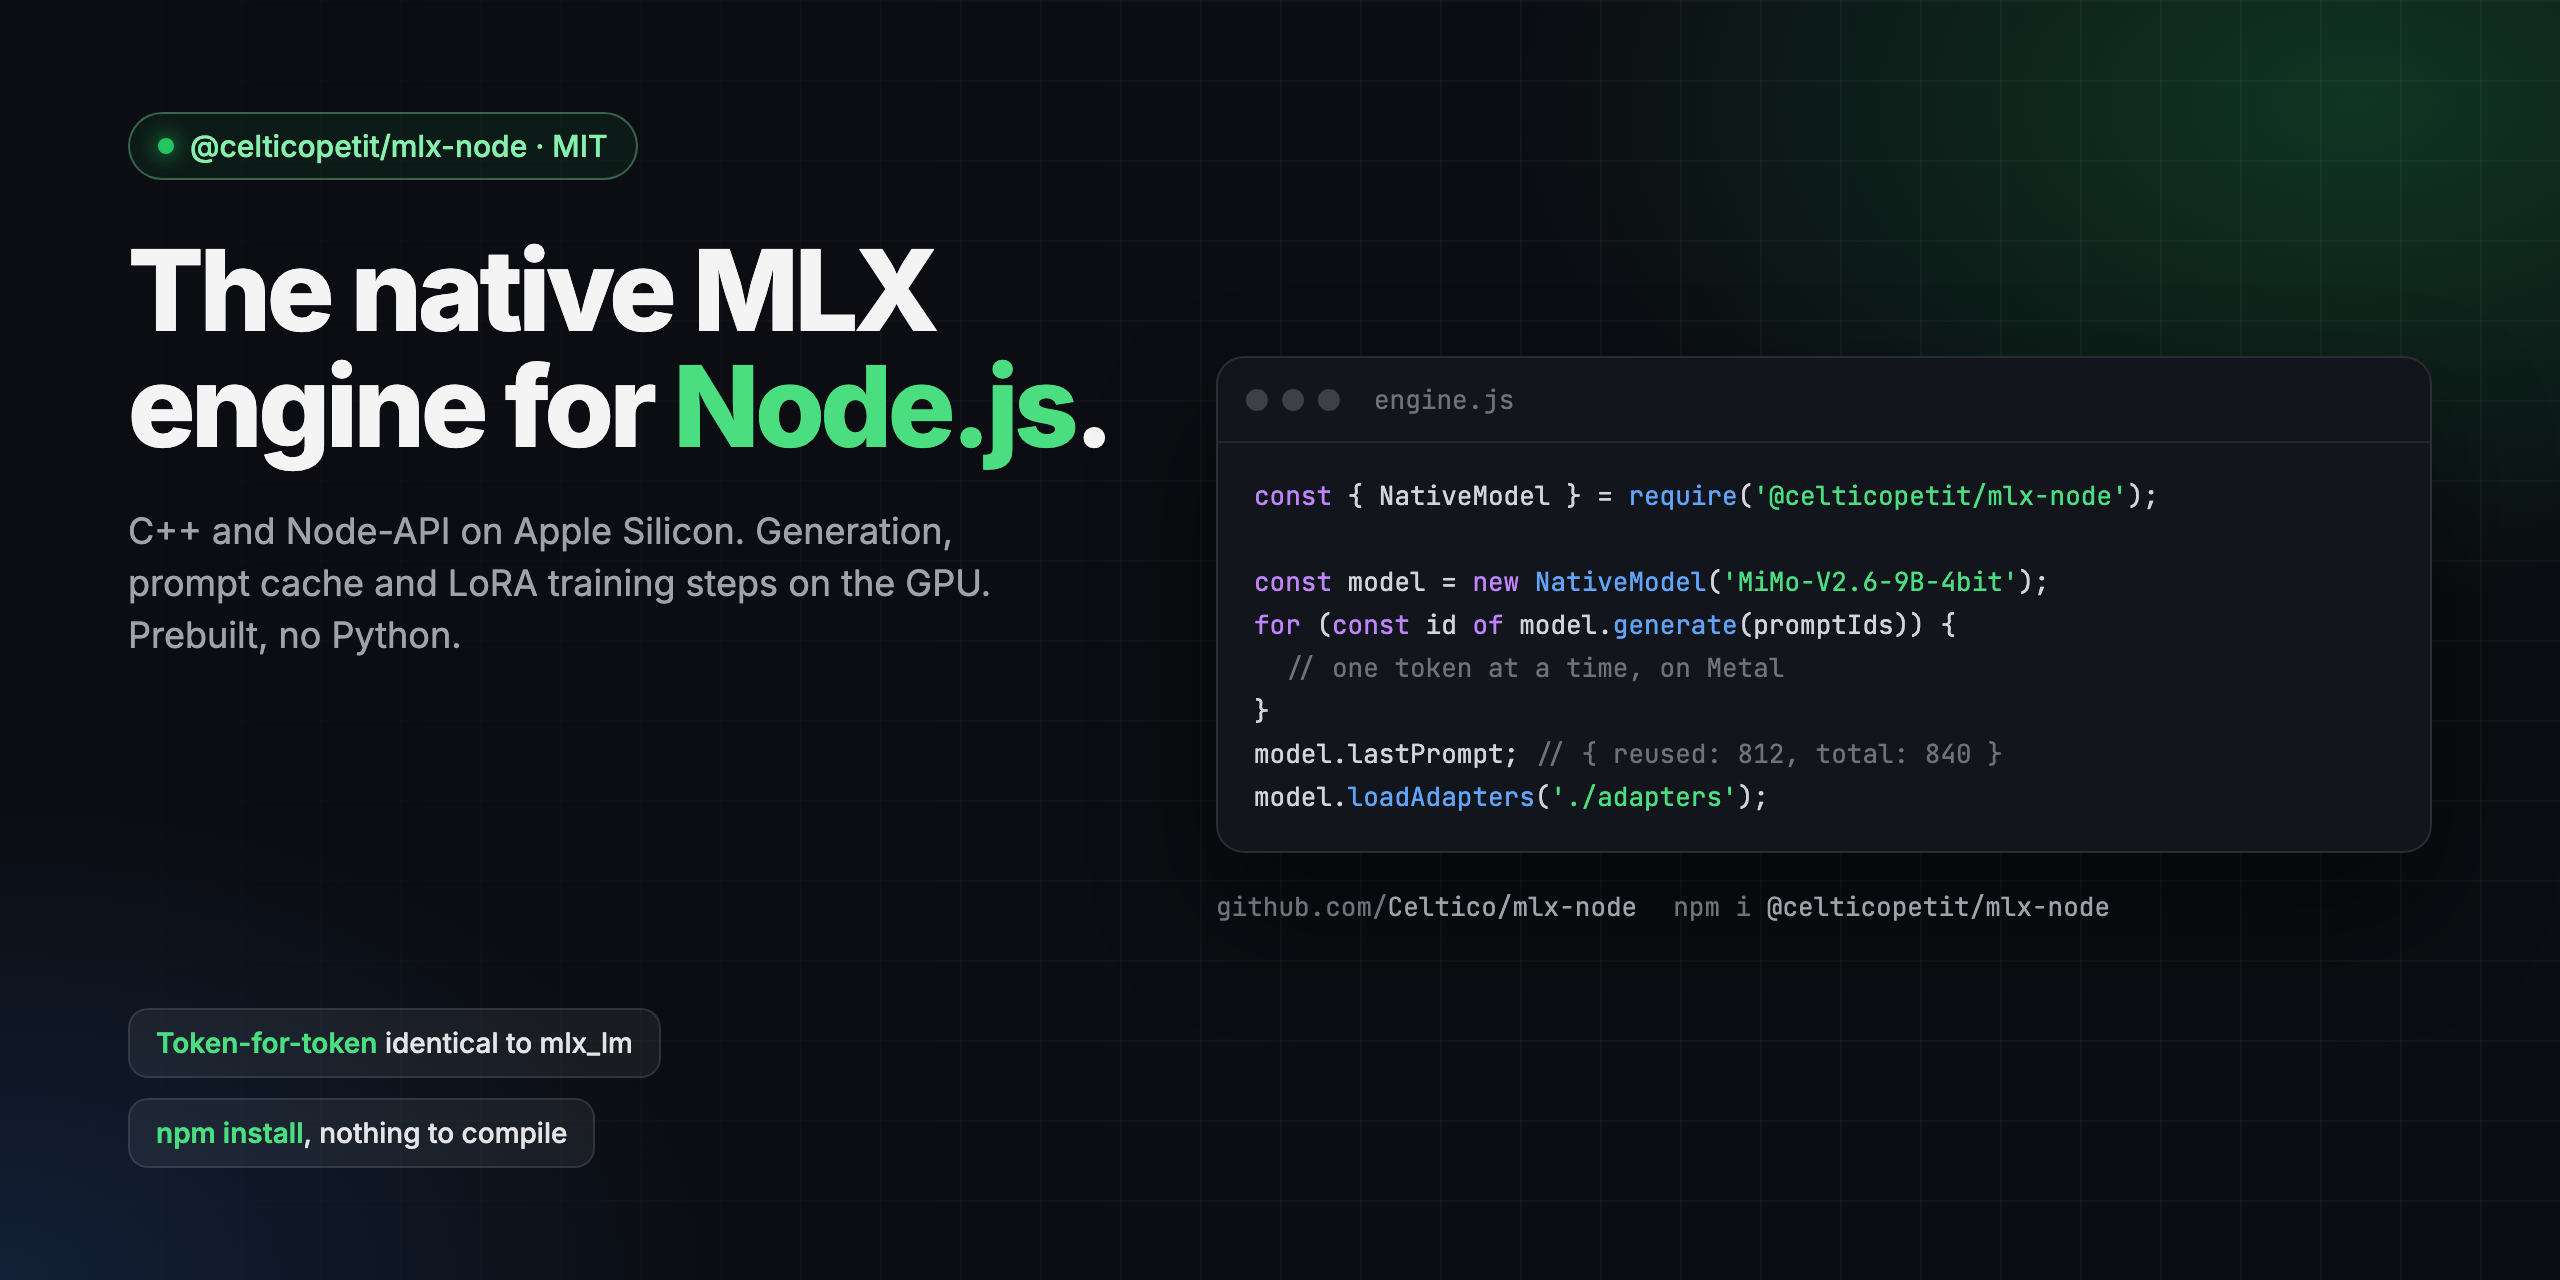
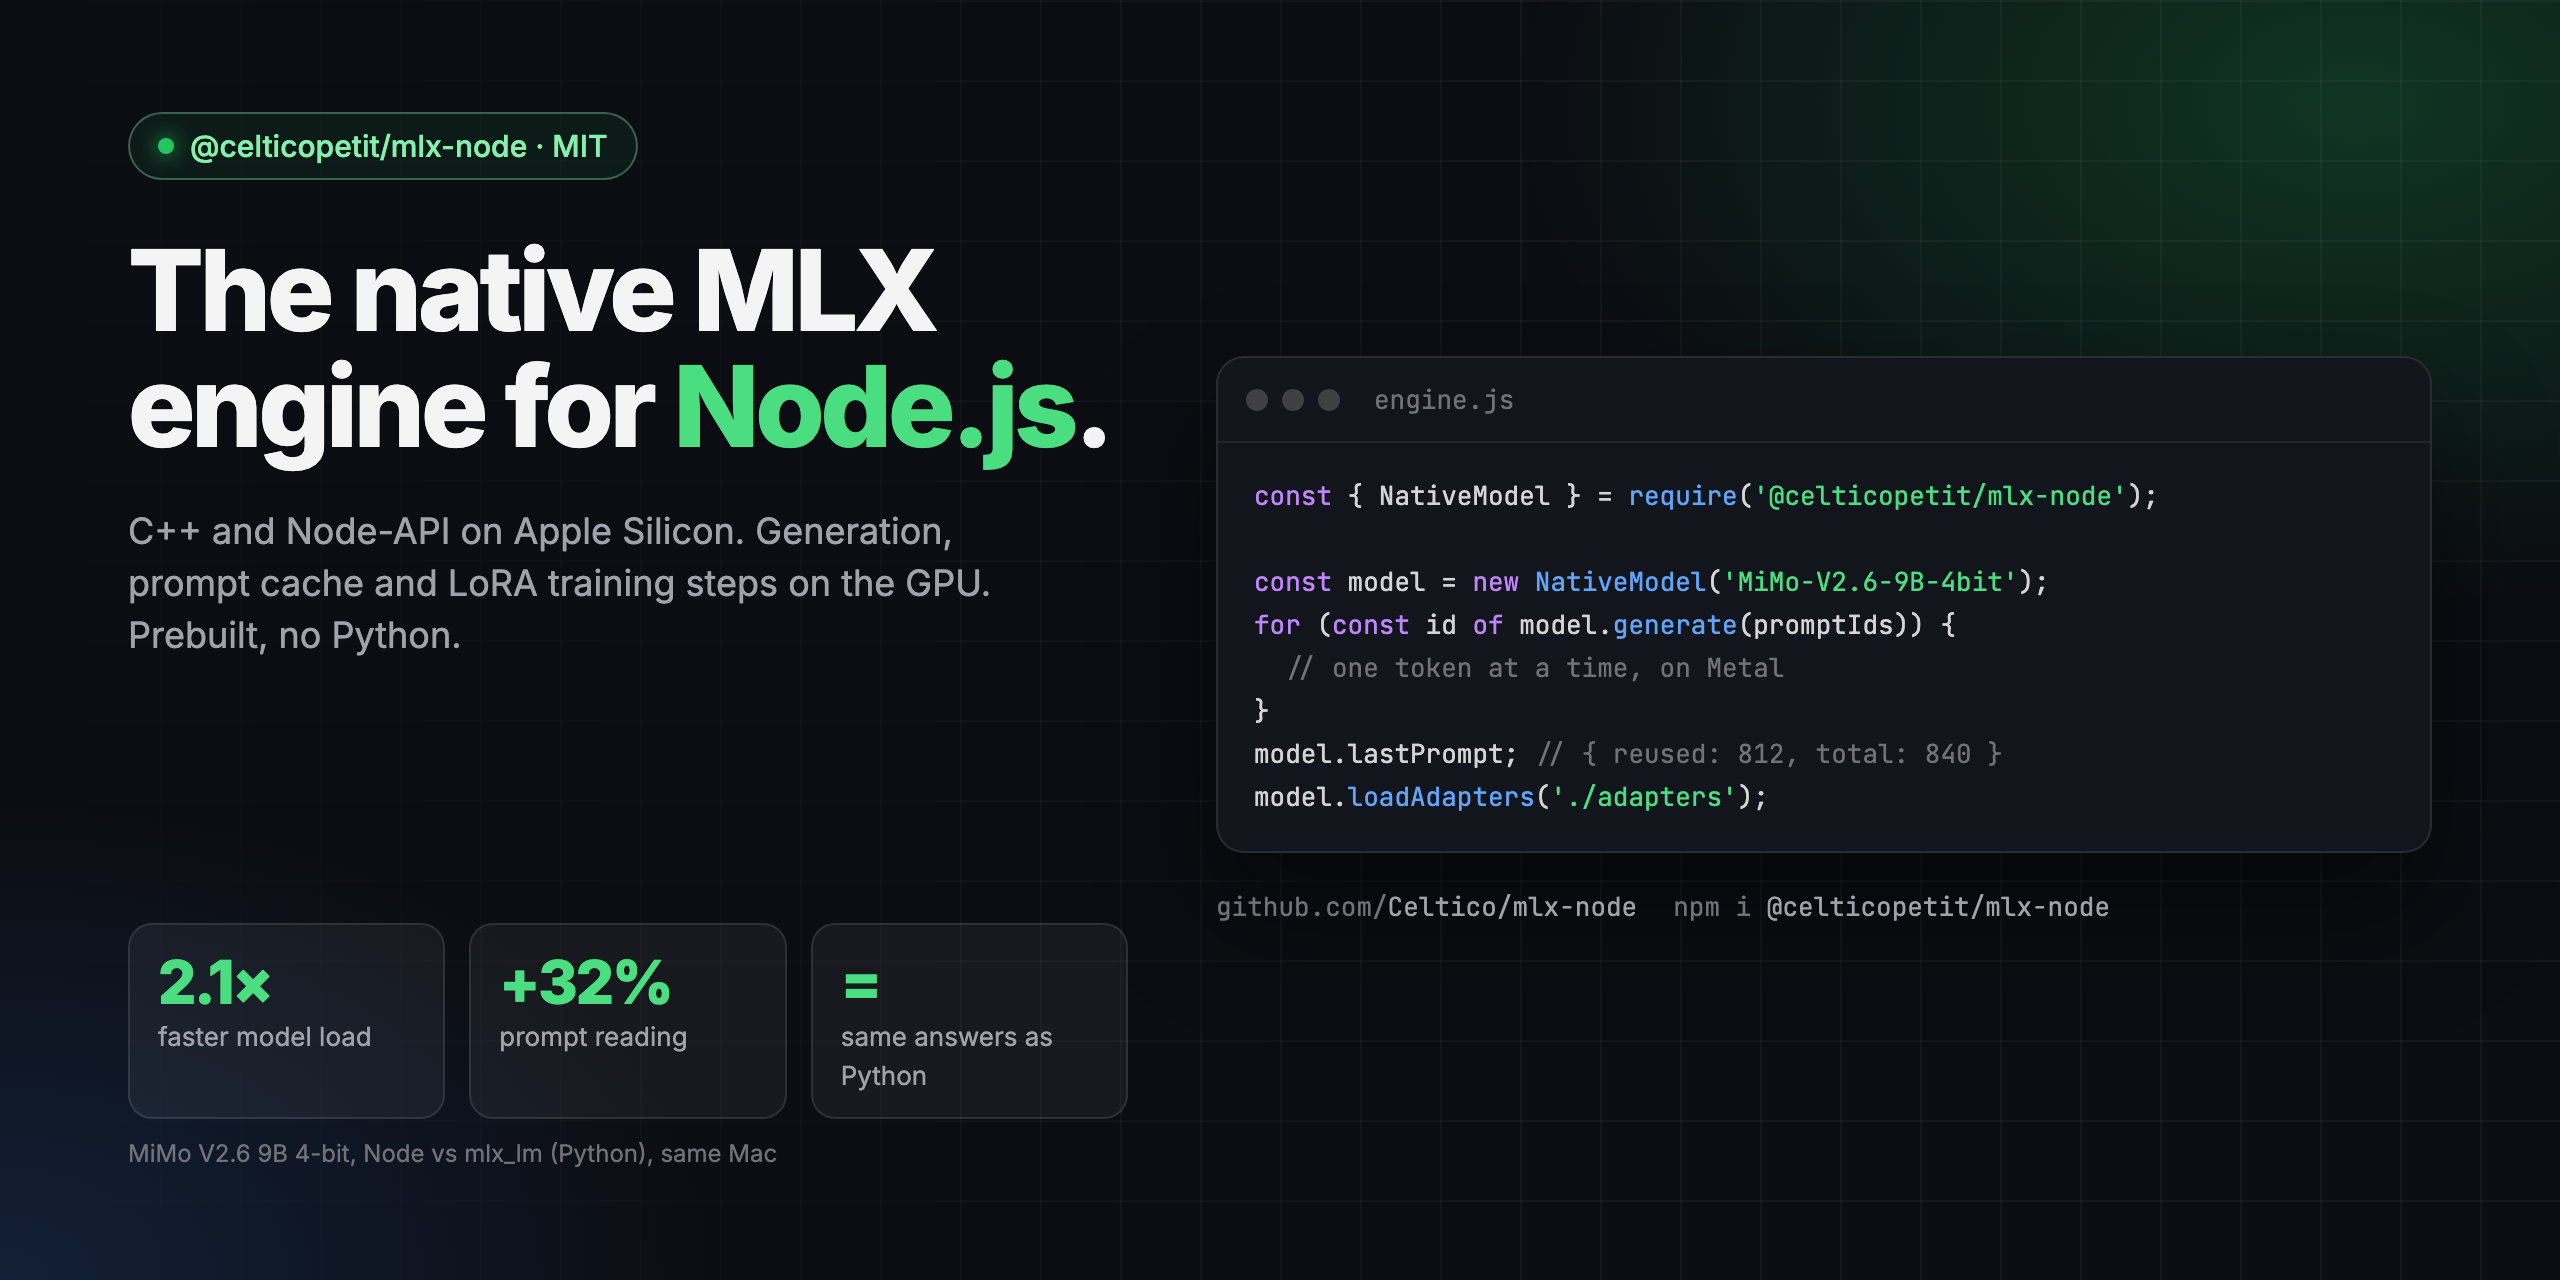
Landing and cover: real numbers from the engine benchmark (MiMo 9B, Node vs Python)

diff --git a/docs/index.html b/docs/index.html
@@ -72,13 +72,32 @@
   .arrow { text-align: center; color: var(--dim); font-size: 13px; line-height: 1; }
   footer { border-top: 1px solid var(--line); padding: 30px 0 48px; color: var(--dim); font-size: 14px; display: flex; flex-wrap: wrap; gap: 10px 24px; justify-content: space-between; }
   @media (max-width: 760px) { .two { grid-template-columns: minmax(0,1fr); } nav .hide { display: none; } .actions > * { max-width: 100%; } }
+  .bench { display: grid; gap: 18px; }
+  .row { display: grid; grid-template-columns: 220px minmax(0,1fr) 150px; gap: 8px 18px; align-items: center; }
+  .row .m { font-size: 15px; color: var(--text); }
+  .row .m small { display: block; color: var(--dim); font-size: 13px; }
+  .bars { display: grid; gap: 6px; }
+  .bar2 { display: grid; grid-template-columns: 56px minmax(0,1fr) 116px; gap: 10px; align-items: center; font-size: 13px; color: var(--muted); }
+  .track { height: 9px; background: rgba(255,255,255,.06); border-radius: 99px; overflow: hidden; }
+  .fill { height: 100%; border-radius: 99px; background: #52525b; }
+  .node .fill { background: #22c55e; }
+  .bar2 .v { white-space: nowrap; text-align: right; font: 500 13px 'JetBrains Mono', monospace; color: var(--muted); }
+  .bar2.win .v { color: var(--accent); }
+  .row .verdict { font-size: 14px; font-weight: 600; color: var(--accent); }
+  .row .verdict.even { color: var(--muted); font-weight: 500; }
+  .row .verdict.lose { color: var(--muted); font-weight: 500; }
+  .same { display: inline-flex; gap: 8px; align-items: center; color: var(--accent); font-weight: 600; margin-bottom: 22px; }
+  figure { margin-top: 30px; }
+  figure img { width: 100%; max-width: 760px; display: block; border-radius: 14px; border: 1px solid var(--line); }
+  figcaption { color: var(--dim); font-size: 13px; margin-top: 10px; }
+  @media (max-width: 760px) { .row { grid-template-columns: minmax(0,1fr); } }
 </style>
 </head>
 <body>
 <div class="wrap">
   <header class="top">
     <a class="brand" href="#">mlx<span>-</span>node</a>
-    <nav><a class="hide" href="#features">Features</a><a class="hide" href="#install">Install</a><a href="https://github.com/Celtico/mlx-node">GitHub</a><a href="https://www.npmjs.com/package/@celticopetit/mlx-node">npm</a></nav>
+    <nav><a class="hide" href="#features">Features</a><a class="hide" href="#numbers">Benchmark</a><a class="hide" href="#install">Install</a><a href="https://github.com/Celtico/mlx-node">GitHub</a><a href="https://www.npmjs.com/package/@celticopetit/mlx-node">npm</a></nav>
   </header>
 
   <div class="hero">
@@ -161,6 +180,21 @@ model.<span class="fn">close</span>(); <span class="cm">// frees the GPU memory<
         </table>
       </div>
     </div>
+  </section>
+
+  <section id="numbers">
+    <h2>Real numbers: Node vs Python</h2>
+    <p class="sub">MiMo V2.6 9B 4-bit on the same Apple Silicon Mac. Each engine loads the same model in turn: mlx-node against mlx_lm in Python. Median of 3 rounds, measured with the engine benchmark of the Agentic Coder app.</p>
+    <div class="same">✓ Both engines give the same answer, token for token (greedy)</div>
+    <div class="bench">
+      <div class="row"><div class="m">Model load<small>seconds · less is better</small></div><div class="bars"><div class="bar2 node win"><span>Node</span><div class="track"><div class="fill" style="width:48.5%"></div></div><span class="v">3.2 s</span></div><div class="bar2  "><span>Python</span><div class="track"><div class="fill" style="width:100.0%"></div></div><span class="v">6.6 s</span></div></div><div class="verdict ">2.1× faster</div></div>
+      <div class="row"><div class="m">Reading a long prompt<small>4,240 tokens · tok/s · more is better</small></div><div class="bars"><div class="bar2 node win"><span>Node</span><div class="track"><div class="fill" style="width:100.0%"></div></div><span class="v">211.32 tok/s</span></div><div class="bar2  "><span>Python</span><div class="track"><div class="fill" style="width:75.9%"></div></div><span class="v">160.43 tok/s</span></div></div><div class="verdict ">+32%</div></div>
+      <div class="row"><div class="m">Generation<small>tok/s · more is better</small></div><div class="bars"><div class="bar2 node "><span>Node</span><div class="track"><div class="fill" style="width:96.3%"></div></div><span class="v">25.68 tok/s</span></div><div class="bar2  win"><span>Python</span><div class="track"><div class="fill" style="width:100.0%"></div></div><span class="v">26.68 tok/s</span></div></div><div class="verdict lose">Python 4% faster</div></div>
+      <div class="row"><div class="m">First token, short prompt<small>seconds · less is better</small></div><div class="bars"><div class="bar2 node win"><span>Node</span><div class="track"><div class="fill" style="width:96.8%"></div></div><span class="v">0.241 s</span></div><div class="bar2  "><span>Python</span><div class="track"><div class="fill" style="width:100.0%"></div></div><span class="v">0.249 s</span></div></div><div class="verdict ">3% faster</div></div>
+      <div class="row"><div class="m">Follow-up with prompt cache<small>first token, seconds · less is better</small></div><div class="bars"><div class="bar2 node win"><span>Node</span><div class="track"><div class="fill" style="width:92.3%"></div></div><span class="v">0.25 s</span></div><div class="bar2  "><span>Python</span><div class="track"><div class="fill" style="width:100.0%"></div></div><span class="v">0.271 s</span></div></div><div class="verdict ">8% faster</div></div>
+      <div class="row"><div class="m">Peak memory<small>GB · less is better</small></div><div class="bars"><div class="bar2 node "><span>Node</span><div class="track"><div class="fill" style="width:100.0%"></div></div><span class="v">9.898 GB</span></div><div class="bar2  "><span>Python</span><div class="track"><div class="fill" style="width:100.0%"></div></div><span class="v">9.899 GB</span></div></div><div class="verdict even">Same</div></div>
+    </div>
+    <figure><img src="benchmark.jpg" alt="Engine benchmark in the Agentic Coder app: Node 5, Python 1, both engines give the same answer" loading="lazy"><figcaption>The same run in the app, in Catalan: Node wins 5 of the 6 measures.</figcaption></figure>
   </section>
 
   <section>
